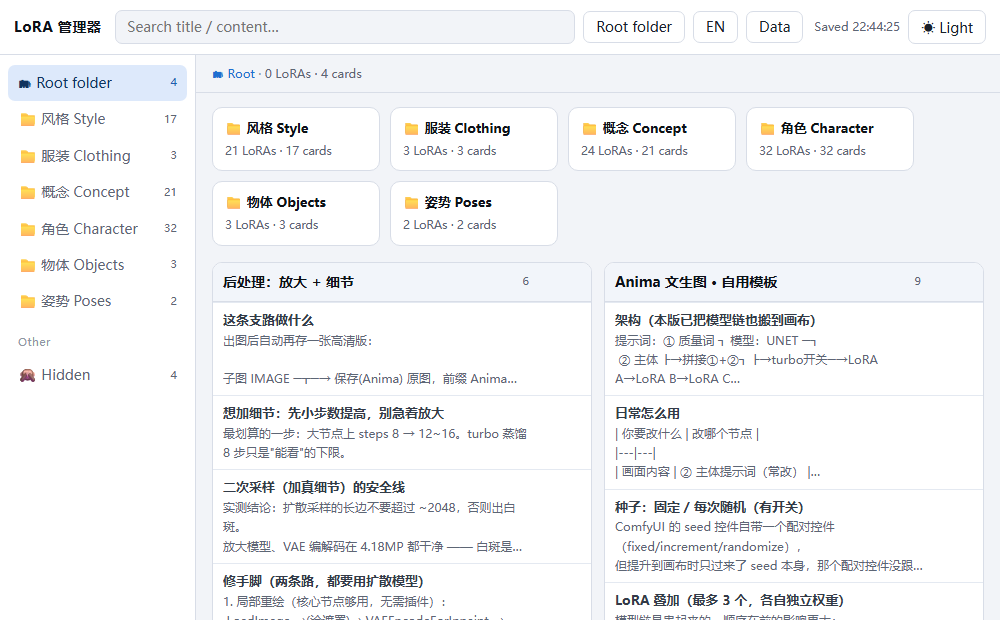
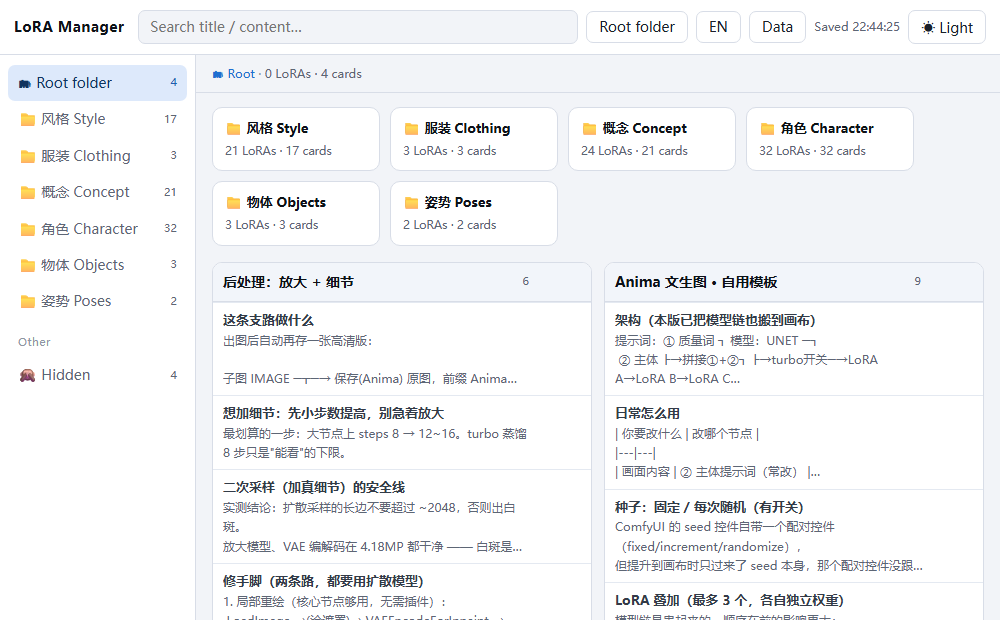
更新英文截图（品牌名已本地化），README 填真实仓库地址

Changed region(s): [[0.558, 0.0306, 0.806, 0.0613], [0.062, 0.0306, 0.31, 0.0613]]

diff --git a/README.md b/README.md
@@ -44,7 +44,7 @@ When you have dozens of LoRAs, their trigger words and prompt variants end up sc
 从源码构建：
 
 ```bash
-git clone <repo>
+git clone https://github.com/EasyRain/lora-manager.git
 cd lora-manager
 dotnet publish shell -c Release -r win-x64 --self-contained false -o out
 ```
